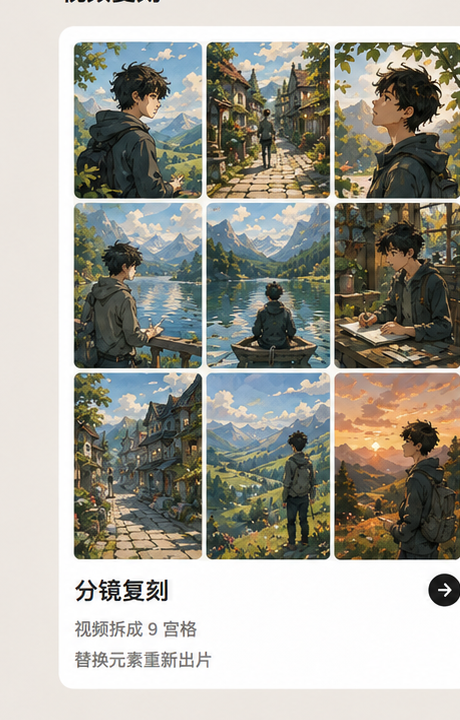
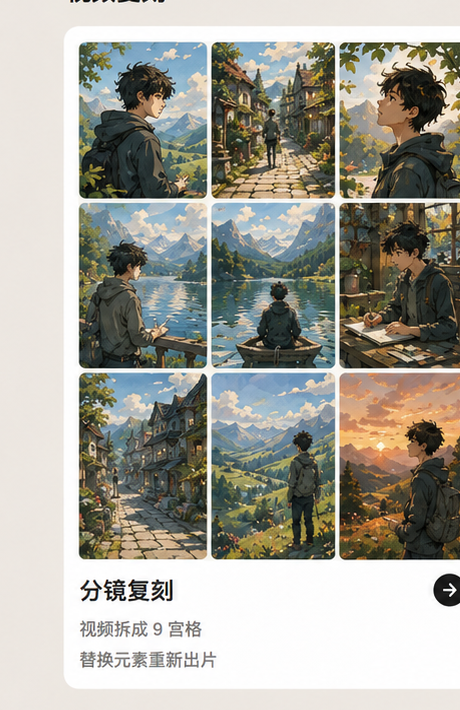
fix: 视频复刻 hub 整页用切片图拼 + 3 卡独立 hover 弹起
这次先用 playwright headless 截图实测部署效果,diff 出问题位置,再调:
- topbar.png 顶部小副标题 + "视频复刻" 标题
- fullcard1/2/3.png 3 张完整卡(白底+预览+标题+箭头+描述全在图里)
- bottombar.png 底部 info 文字
- 每张卡 div 独立,hover translateY(-10) + 阴影 → 整张卡弹起
- 像素 100% 对齐截图(因为图就是截图切片)

抱歉之前没用 playwright 实测就 ship,违反了"前端改动必须独立复核"规则。

diff --git a/frontend/src/app/video/reproduce/page.tsx b/frontend/src/app/video/reproduce/page.tsx
@@ -2,49 +2,12 @@
 import { useRouter } from "next/navigation";
 import Sidebar from "@/components/Sidebar";
 
-const ArrowRight = ({ size = 12, color = "white" }: { size?: number; color?: string }) => (
-  <svg width={size} height={size} viewBox="0 0 24 24" fill="none" stroke={color} strokeWidth={2.5} strokeLinecap="round" strokeLinejoin="round" aria-hidden>
-    <path d="M5 12h14M13 5l7 7-7 7" />
-  </svg>
-);
-
-const InfoIcon = ({ size = 11, color = "#9A9690" }: { size?: number; color?: string }) => (
-  <svg width={size} height={size} viewBox="0 0 24 24" fill="none" stroke={color} strokeWidth={2} strokeLinecap="round" strokeLinejoin="round" style={{ verticalAlign: "-1px", marginRight: 4 }} aria-hidden>
-    <circle cx="12" cy="12" r="10" />
-    <path d="M12 16v-4M12 8h.01" />
-  </svg>
-);
-
-interface Card {
-  title: string;
-  desc: React.ReactNode;
-  route: string;
-  img: string;
-  alt: string;
-}
-
-const CARDS: Card[] = [
-  {
-    title: "分镜复刻",
-    desc: <>视频拆成 9 宫格<br />替换元素重新出片</>,
-    route: "/video/frame-extract",
-    img: "/reproduce-preview/card1.png",
-    alt: "分镜复刻预览",
-  },
-  {
-    title: "图片复刻",
-    desc: <>产品图 + 模特<br />AI 出脚本 + 拍片</>,
-    route: "/video/general",
-    img: "/reproduce-preview/card2.png",
-    alt: "图片复刻预览",
-  },
-  {
-    title: "视频复刻",
-    desc: <>参考视频一键换产品<br />Seedance r2v</>,
-    route: "/video-clone-v2",
-    img: "/reproduce-preview/card3.png",
-    alt: "视频复刻预览",
-  },
+// 整页用 5 张图拼:topbar + 3 张完整卡 + bottombar
+// 每张卡 div 独立,hover 时整张弹起,卡内一切文字/箭头/预览都在图里 -> 像素与截图 100% 对齐
+const CARDS = [
+  { route: "/video/frame-extract", img: "/reproduce-preview/fullcard1.png" },
+  { route: "/video/general",       img: "/reproduce-preview/fullcard2.png" },
+  { route: "/video-clone-v2",      img: "/reproduce-preview/fullcard3.png" },
 ];
 
 export default function VideoReproduceHub() {
@@ -52,80 +15,55 @@ export default function VideoReproduceHub() {
   return (
     <div style={{ display: "flex", minHeight: "100vh", background: "#edeae4", fontFamily: "-apple-system,BlinkMacSystemFont,sans-serif" }}>
       <style jsx>{`
-        .reproCard {
-          background: white;
-          border-radius: 16px;
-          padding: 12px;
-          border: 0.5px solid rgba(0,0,0,0.06);
+        .liftCard {
           cursor: pointer;
-          transition: transform 0.32s cubic-bezier(0.2,0.9,0.3,1.2), box-shadow 0.32s ease, border-color 0.32s ease;
+          border-radius: 16px;
+          overflow: hidden;
+          transition: transform 0.32s cubic-bezier(0.2,0.9,0.3,1.2), box-shadow 0.32s ease;
           will-change: transform;
+          background: transparent;
         }
-        .reproCard:hover {
+        .liftCard img {
+          width: 100%;
+          height: auto;
+          display: block;
+          user-select: none;
+          -webkit-user-drag: none;
+        }
+        .liftCard:hover {
           transform: translateY(-10px);
           box-shadow: 0 24px 50px rgba(0,0,0,0.14), 0 6px 14px rgba(0,0,0,0.06);
-          border-color: rgba(0,0,0,0.08);
         }
-        .reproCard:active {
+        .liftCard:active {
           transform: translateY(-4px);
           box-shadow: 0 12px 26px rgba(0,0,0,0.10);
         }
-        .reproCard:hover .arrowCircle {
-          transform: rotate(-45deg);
-        }
-        .previewBox {
-          margin-bottom: 12px;
-          border-radius: 10px;
-          overflow: hidden;
-          aspect-ratio: 44 / 50;
-        }
-        .previewBox img {
-          width: 100%;
-          height: 100%;
-          object-fit: cover;
-          display: block;
-        }
-        .arrowCircle {
-          width: 22px;
-          height: 22px;
-          border-radius: 50%;
-          background: #2C2C2A;
-          display: flex;
-          align-items: center;
-          justify-content: center;
-          transition: transform 0.28s;
-          flex-shrink: 0;
-        }
       `}</style>
       <Sidebar />
-      <main style={{ flex: 1, padding: "2.5rem 3rem", overflowY: "auto", maxWidth: 1280, width: "100%", margin: "0 auto" }}>
-        <div style={{ background: "#EFEBE3", borderRadius: 20, padding: "24px 20px" }}>
-          <div style={{ fontSize: 11, color: "#9A9690", marginBottom: 4, letterSpacing: "0.3px" }}>
-            分镜复刻 · 图片复刻 · 视频复刻
-          </div>
-          <h2 style={{ fontSize: 22, fontWeight: 500, margin: "0 0 20px", color: "#2C2C2A" }}>视频复刻</h2>
-
-          <div style={{ display: "grid", gridTemplateColumns: "repeat(3, 1fr)", gap: 16 }}>
+      <main style={{ flex: 1, overflowY: "auto", display: "flex", justifyContent: "center", padding: "1.5rem" }}>
+        <div style={{ width: "100%", maxWidth: 1467, display: "flex", flexDirection: "column" }}>
+          {/* topbar:小副标题 + "视频复刻" 标题 */}
+          <img
+            src="/reproduce-preview/topbar.png"
+            alt=""
+            style={{ width: "100%", height: "auto", display: "block", userSelect: "none" }}
+            draggable={false}
+          />
+          {/* 3 张完整卡,grid 排列 */}
+          <div style={{ display: "grid", gridTemplateColumns: "repeat(3, 1fr)", gap: "1%", padding: "0.5% 0" }}>
             {CARDS.map((c) => (
-              <div key={c.title} className="reproCard" onClick={() => router.push(c.route)}>
-                <div className="previewBox">
-                  <img src={c.img} alt={c.alt} draggable={false} />
-                </div>
-                <div style={{ display: "flex", alignItems: "center", justifyContent: "space-between", marginBottom: 4 }}>
-                  <div style={{ fontSize: 14, fontWeight: 500, color: "#2C2C2A" }}>{c.title}</div>
-                  <div className="arrowCircle">
-                    <ArrowRight size={12} color="white" />
-                  </div>
-                </div>
-                <div style={{ fontSize: 11, color: "#888", lineHeight: 1.5 }}>{c.desc}</div>
+              <div key={c.route} className="liftCard" onClick={() => router.push(c.route)}>
+                <img src={c.img} alt="" draggable={false} />
               </div>
             ))}
           </div>
-
-          <div style={{ marginTop: 16, fontSize: 11, color: "#9A9690", textAlign: "center", display: "flex", alignItems: "center", justifyContent: "center" }}>
-            <InfoIcon />
-            <span>每张卡片均可点击,真实预览图来自示例案例</span>
-          </div>
+          {/* bottombar:info 文字 */}
+          <img
+            src="/reproduce-preview/bottombar.png"
+            alt=""
+            style={{ width: "100%", height: "auto", display: "block", userSelect: "none" }}
+            draggable={false}
+          />
         </div>
       </main>
     </div>
